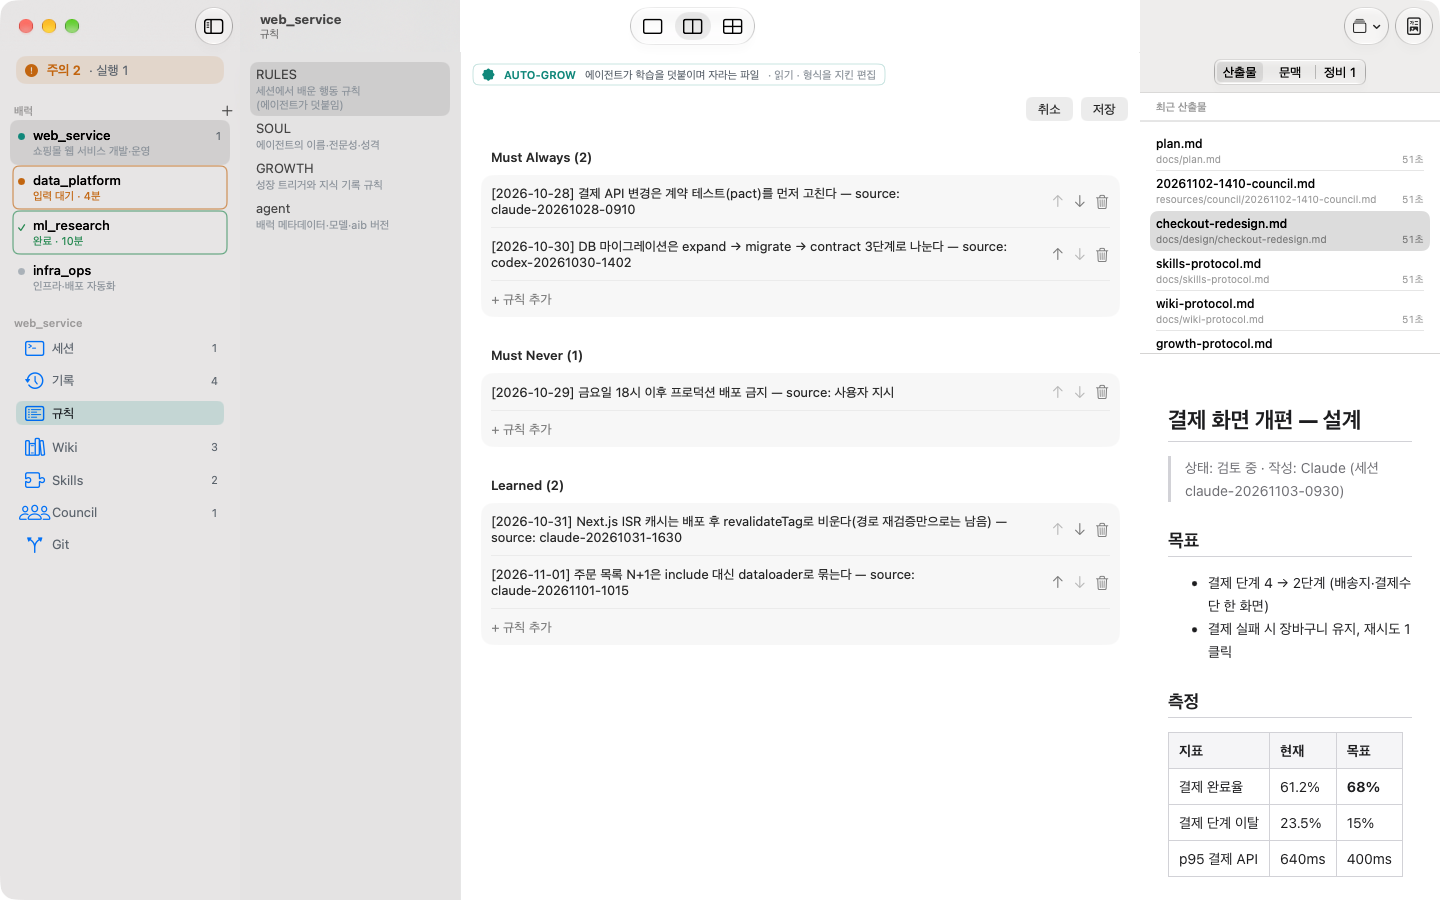
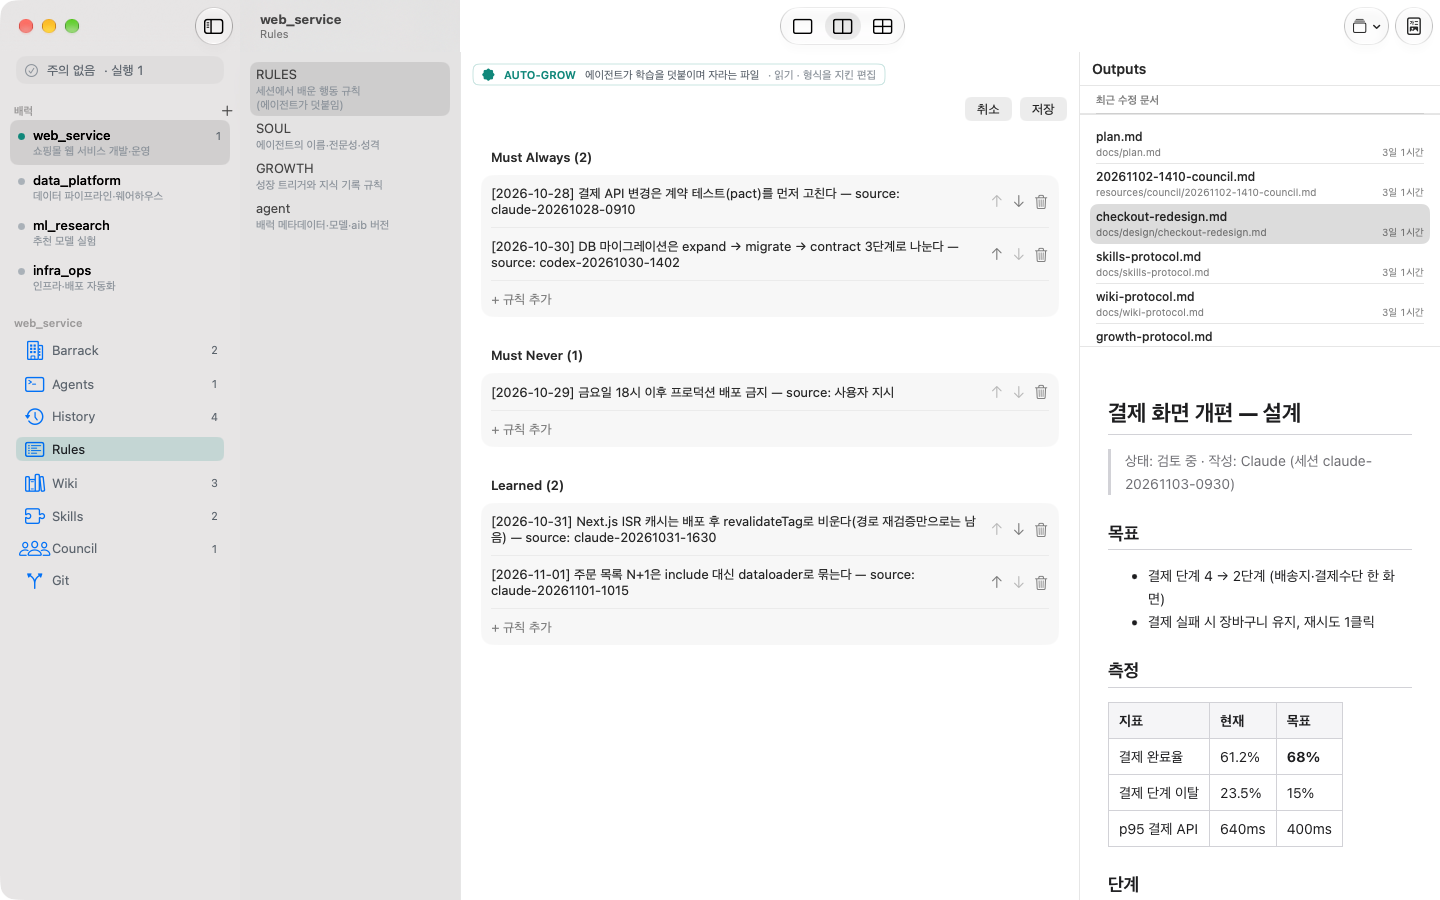
docs(v2): screenshots for Agents, Barrack, Outputs; changelog; IN-09 note
The README shows the new layout (Agents bar, Barrack destination, Outputs
column) from a fresh showcase run on the demo barracks; the Settings
capture still shows the main window and stays out. IN-09 (Ctrl+C) fails
on this Mac for the new build and for beta.2 alike, so it is recorded as
an environment change, not a regression.

diff --git a/docs/known-issues.md b/docs/known-issues.md
@@ -15,6 +15,6 @@ Codex code review r1 (2026-10-31) 반영 후에도 남는 제약. 제품 전환 
 7. **자동화 미완 하위 항목** — ST-01b(4분할에서 IN/SC 핵심 재실행), MD-04b(뷰어 클릭·스크롤 후 복귀)는 `unverified`로 보고된다.
 8. **settle timeout과 정상 종료 구분 없음**(Codex r2 #17 잔여) — 바이트 비교가 기대값과 어긋나면 fail로 드러나므로 판정은 안전하지만, evidence에 timeout 여부가 따로 남지 않는다.
 9. **이 Mac의 Command Line Tools 손상** — `usr/lib/swift/pm/{ManifestAPI,PluginAPI}`에 2024-02 CLT의 `*.private.swiftinterface`가 남아 있어 swiftc가 옛 PackageDescription API로 manifest를 컴파일하고, 현재 `libPackageDescription.dylib`와 링크하다 실패한다(`Undefined symbols ... Package.__allocating_init`). **모든 SwiftPM 패키지가 영향**. 시스템 파일은 건드리지 않고 `scripts/make-toolchain-fix.sh`가 공개 인터페이스만 담은 미러를 `.toolchain-fix/`에 만들고 `SWIFTPM_CUSTOM_LIBS_DIR`로 지정한다(`package-app.sh`가 자동 적용). 근본 해결은 CLT 재설치 또는 관리자 권한으로 stale 파일 4개 삭제.
-10. **pane 교체 직후 키 유실 — 재현 안 됨(2026-11-01)** — 원래 관측(IN-09 Ctrl+C 2/5 유실)은 활성화 가드 도입 전, 디스플레이 절전으로 앱이 비활성일 수 있던 시간대의 실행이었다. `--selftest-only=repro10`(RP-10a~d: Ctrl+C·일반 문자·원래 조건·직전 순서[한글 입력 소스 왕복+bracketed paste pane] 재현, 각 15회, drain 없음)에서 exec·daemon 모두 **60회 중 유실 0**. 비활성 앱 영향으로 추정하고 회귀 테스트로 유지한다.
+10. **pane 교체 직후 키 유실 — 재현 안 됨(2026-11-01)** — 원래 관측(IN-09 Ctrl+C 2/5 유실)은 활성화 가드 도입 전, 디스플레이 절전으로 앱이 비활성일 수 있던 시간대의 실행이었다. `--selftest-only=repro10`(RP-10a~d: Ctrl+C·일반 문자·원래 조건·직전 순서[한글 입력 소스 왕복+bracketed paste pane] 재현, 각 15회, drain 없음)에서 exec·daemon 모두 **60회 중 유실 0**. 비활성 앱 영향으로 추정하고 회귀 테스트로 유지한다. **2026-11-07 갱신**: 이 맥에서 IN-09a가 다시 실패한다(`keyEquivalent:c handled=false`, 포커스는 맞음). 같은 실행 방식으로 v2.0.0-beta.2(11/05 전체 통과 빌드)도 똑같이 실패해 코드 회귀가 아니라 환경 변화다. 쉬었다가 처음 돌리면 IN-09만, 곧바로 이어 돌리면 한글 합성 입력(IN-01a·02a·04a)까지 두 빌드 모두 실패한다. 사람 검사(G4)에서 Ctrl+C·한글 입력을 실물 키보드로 확인한다.
 11. **macOS 창 크기 복원** — 기본 창 크기(1440×900)는 저장된 창 상태가 없을 때만 적용된다. self-test는 시작 시 기본 크기로 맞춘다(이전 실행이 남긴 최소 크기 때문에 RS-08 첫 단계가 inspector 자동 표시 애니메이션 ~0.5s를 포함해 측정된 사례).
 12. **Codex 실행 리뷰 R5(창 상태 변화 후 화면 미갱신) — 재현 안 됨(2026-11-01)** — 리뷰 순서(4→1분할·배럭 왕복·창 축소)와 최소화→복원 뒤 입력을 recorder echo로 화면에 그리게 하고, 전후 캡처의 pane 픽셀 차이(최소 3칸 면적, 커서 깜박임 배제)로 판정: exec·daemon 모두 그려짐(`--selftest-only=repro-r5`, RP-R5a/b). 당시 관측은 computer-use 캡처 경로 문제였을 가능성이 크다. 사람 검사 RS-05에서 실제 화면으로 한 번 더 본다.

diff --git a/README.md b/README.md
@@ -10,14 +10,17 @@
 
 - **터미널**: Ghostty 엔진 기반이다. 출력이 폭주하는 중에도 입력이 밀리지 않는다(입력 지연 p95: v1.6.1 240 ms, v2 16.7 ms). 리사이즈해도 줄·열이 잘리지 않고, 1·2·4 분할을 지원한다.
 - **세션 유지**: 터미널은 별도 PTY 데몬이 소유한다. 앱을 끄거나 다시 켜도 에이전트 세션이 살아 있고, 다시 붙으면 이전 화면을 재생한다.
-- **배럭 문서**: RULES·SOUL·GROWTH·agent.yaml을 폼으로 편집한다. 바깥에서 동시에 수정한 경우 섹션 단위로 병합한다. Wiki·세션 기록·Skills도 편집할 수 있다.
-- **운영**: 정비 큐(배럭별 할 일), ⌘K 팔레트, Git(배럭 경로만 커밋), Council, 새 에이전트(⌘N), 배럭 추가, 터미널 출력 보관, 모델 프로필, 예약 활성화(v1과 같은 파일·잠금을 써서 이중 실행 없음), v1 설정 가져오기.
+- **Agents**: 그리드 위 New Agent 막대에서 Claude·Codex·Gemini·Terminal·Council을 한 번에 시작하고, 칩 목록에서 실행 중인 에이전트의 상태(작업 중·입력 대기·완료)를 보며 전환한다.
+- **Barrack**: 배럭 정보(개요·SOUL·agent.yaml·실행 중 세션)와 상태(점검이 필요한 항목)를 한 화면에서 본다.
+- **배럭 문서**: Rules(RULES·SOUL·GROWTH·agent.yaml)를 폼으로 편집한다. 바깥에서 동시에 수정한 경우 섹션 단위로 병합한다. Wiki·History(세션 기록·터미널 출력)·Skills도 다룬다.
+- **Outputs**: 터미널 옆에 배럭의 최근 문서를 바로 렌더링해 보여 준다(폭 조절 가능).
+- **운영**: ⌘K 팔레트, Git(배럭 경로만 커밋), Council, 배럭 추가, 터미널 출력 보관, 모델 프로필, 예약 활성화(v1과 같은 파일·잠금을 써서 이중 실행 없음), v1 설정 가져오기.
 
 | | |
 |---|---|
-| ![배럭 문맥](docs/screenshots/02-context.png) | ![SOUL 폼](docs/screenshots/08-soul-form.png) |
+| ![Barrack](docs/screenshots/02-barrack.png) | ![SOUL 폼](docs/screenshots/08-soul-form.png) |
 | ![Skills](docs/screenshots/11-skills.png) | ![Git](docs/screenshots/13-git.png) |
-| ![정비 큐](docs/screenshots/03-maintenance.png) | ![다크 모드](docs/screenshots/16-workspace-dark.png) |
+| ![History](docs/screenshots/05-history.png) | ![다크 모드](docs/screenshots/16-workspace-dark.png) |
 
 전체 화면 목록은 [docs/screenshots/](docs/screenshots/)에 있다.
 

diff --git a/docs/RELEASE.md b/docs/RELEASE.md
@@ -7,8 +7,8 @@
 | # | 관문 | 상태 |
 |---|---|---|
 | G1 | v1 기능 패리티 A~H | 완료(계획표 참조) |
-| G2 | 전체 self-test 0 fail (개발 빌드, 모든 스위트) | 2026-11-05 167 pass / 0 fail(r7 반영 후, 사용자 파일 무변경) + `run-persist-test.sh` PS-01·02·04·05 pass + `ptyd-smoke.py` 21/21. 출시 직전 재실행 |
-| G3 | 출시 빌드 self-test (`VARIANT=release`) unit·agents | 2026-11-05 unit·agents·integration 111 pass / 0 fail(beta.2 = r6+r7, 사용자 파일 무변경) |
+| G2 | 전체 self-test 0 fail (개발 빌드, 모든 스위트) | 2026-11-07 167 pass / 2 fail — IN-09(Ctrl+C) 환경 문제: beta.2도 같은 방식으로 실패(known-issues #10). `scripts/ux-stress.sh` 8/8, LY-01a pass. 출시 직전 재실행 |
+| G3 | 출시 빌드 self-test (`VARIANT=release`) unit·agents | 2026-11-07 unit·agents·integration 113 pass / 0 fail(build 84, 사용자 파일 무변경) |
 | G4 | 사람 검사 15건 (README "사람 검사 5분", 한국어 IME 등) | **미실시 — 사용자** |
 | G5 | Codex 리뷰 r4(87a558c..55c718c) + r5 + MD-05, 수정분 리뷰 r6·r7 | **충족(2026-11-05)** — r4 17건·r5 20건·r6 17건·r7 13건 처리(`docs/reviews/codex-r{4,5,6,7}-triage.md`), MD-05 pass. r7 수정분(004ca8b) 재리뷰는 GA 전에 |
 | G6 | 실사용 smoke: 출시 앱으로 배럭 1곳에서 세션·문서 편집·Skills·Git 한 바퀴 | 미실시 |

diff --git a/CHANGELOG.md b/CHANGELOG.md
@@ -1,5 +1,15 @@
 # Changelog
 
+## [Unreleased]
+
+사용자 실사용 피드백(2026-11-06) 반영.
+
+- **Agents**: "세션" → "Agents". 그리드 위 New Agent 막대(Claude·Codex·Gemini·Terminal·Council, skip-permissions)와 실행 중 에이전트 칩(상태 점·전환·닫기)
+- **Barrack**: 사이드바 맨 위 새 항목 — 배럭 정보(Info)와 상태(Status)를 나란히. 오른쪽 패널은 Outputs만
+- 메뉴 이름 통일: Barrack · Agents · History · Rules · Wiki · Skills · Council · Git
+- **창 크기 변경 충돌 수정**: Rules·Wiki·History·Skills에서 창을 최소 크기로 줄이면 앱이 종료되던 문제(SwiftUI inspector의 열 크기 협상 루프). Outputs 패널을 직접 만든 열로 바꿔 해결. 화면 전환 때 패널 폭이 바뀌던 것과 터미널 출력이 사라지던 것도 함께 해결
+- 좁은 창: Agents 막대는 가로 스크롤, Barrack은 위아래로 쌓임, 문서 목록은 좁아짐, 헤더 문구는 한 줄(전체는 마우스 오버)
+
 ## [2.0.0-beta.2] - 2026-11-05
 
 Codex 리뷰 r6·r7(수정분 리뷰) 지적 30건을 고친 베타.
